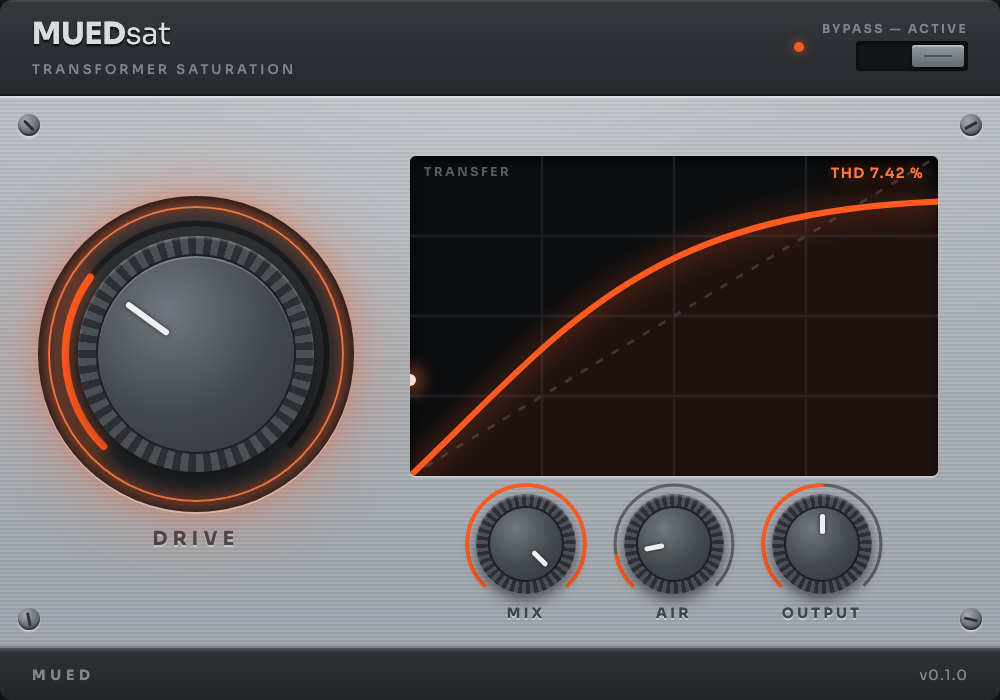
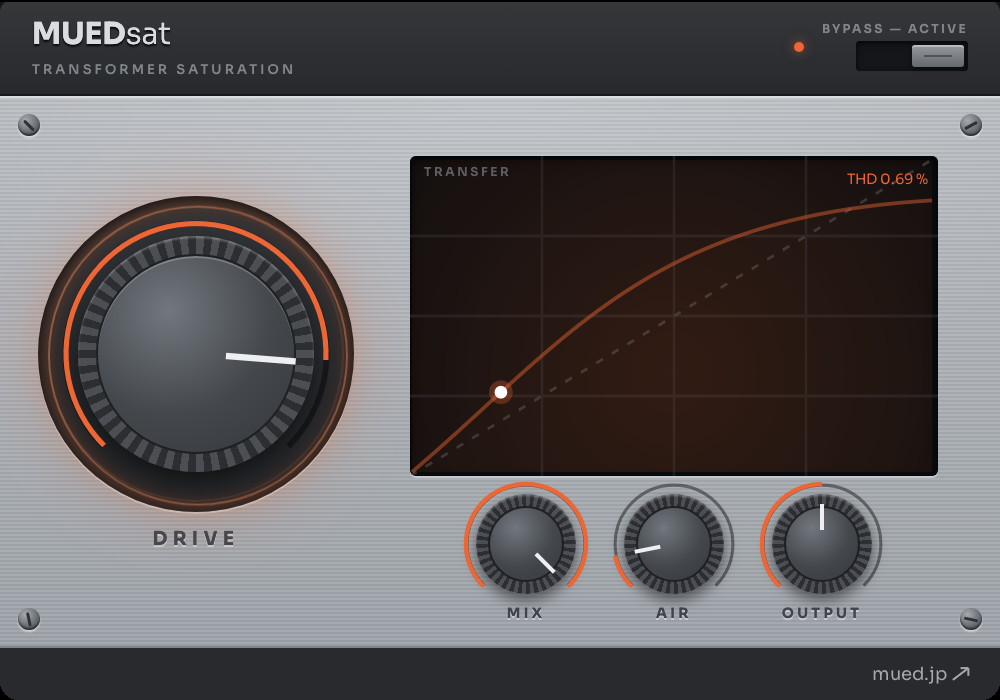
fix(seo): og を持つページは twitter も同じ文に・llms.txt の冒頭を今の MUED に [Tier 2] (#1188)
* fix(seo): og を持つページは twitter も同じ文に・llms.txt の冒頭を今の MUED の説明に（conductor 10/1）[Tier 2]

Claude-Session: https://claude.ai/code/session_01YMQ1QXSp5jMBihPrragoRo

* fix(seo): 共有カードの画像を定数にして、og と twitter の両方に入れる（トップ含む）・test は Node 20 で動く形に（CCO #1188）[Tier 2]

Claude-Session: https://claude.ai/code/session_01YMQ1QXSp5jMBihPrragoRo

* fix(plugins): MUEDsat・MUEDlim の画像を実物（音が入った 1.0.0）に・alt を画像どおりに・THD は「目安」と書く・色のプロファイルを残して変換（masterchain も）[Tier 2]

Claude-Session: https://claude.ai/code/session_01YMQ1QXSp5jMBihPrragoRo

* fix(seo): layout の og にも共有カードの画像と twitter を（/dial/waitlist・/dial/readiness・/connect・dial は定数に）— CCO #1188 注記 [Tier 2]

Claude-Session: https://claude.ai/code/session_01YMQ1QXSp5jMBihPrragoRo

* fix(deps): next 16.3.4 → 16.3.6（GHSA-vcvr-r3jv-pc5j・next/og ImageResponse の RCE・critical）。package.json と lock の next・@next/* だけ [Tier 3・security]

Claude-Session: https://claude.ai/code/session_01YMQ1QXSp5jMBihPrragoRo

---------

diff --git a/app/layout.tsx b/app/layout.tsx
@@ -1,3 +1,4 @@
+import { SHARE_IMAGES } from "@/lib/seo/share-image";
 import type { Metadata, Viewport } from "next";
 import { cookies } from "next/headers";
 import Script from "next/script";
@@ -38,34 +39,29 @@ export const viewport: Viewport = {
   initialScale: 1,
 };
 
+// ★Site-wide defaults = the home page's own og/twitter (app/[locale]/page.tsx). Pages that set no twitter:* fell
+//   back to the old MUED tagline here (conductor 2026-10-01); keep these in step with the home page.
 export const metadata: Metadata = {
-  title: "MUED — ミューズの教え。神秘ではなく、方法論。",
+  title: "MUED — 音楽制作の道具。ミックス、マスタリング、耳の訓練。",
   description:
-    "音楽制作を前に進めるための AI プロダクトスイート。耳を鍛え、制作を記録し、ミックスを AI に任せる。",
+    "現役の作編曲家／ミックスエンジニアが作る、音楽制作のための道具。AIミックスの MUEDial、マスタリング・プラグインの MUEDsp、耳を鍛える MUEDear。",
   metadataBase: new URL("https://mued.jp"),
   openGraph: {
-    title: "MUED — ミューズの教え。神秘ではなく、方法論。",
+    title: "MUED — 音楽制作の道具。ミックス、マスタリング、耳の訓練。",
     description:
-      "音楽制作を前に進めるための AI プロダクトスイート。耳を鍛え、制作を記録し、ミックスを AI に任せる。",
+      "現役の作編曲家／ミックスエンジニアが作る、音楽制作のための道具。AIミックスの MUEDial、マスタリング・プラグインの MUEDsp、耳を鍛える MUEDear。",
     url: "https://mued.jp",
     siteName: "MUED",
-    images: [
-      {
-        url: "/og-image.jpg",
-        width: 1200,
-        height: 630,
-        alt: "MUED — 音楽制作のための AI プロダクトスイート",
-      },
-    ],
+    images: SHARE_IMAGES,
     locale: "ja_JP",
     type: "website",
   },
   twitter: {
     card: "summary_large_image",
-    title: "MUED — ミューズの教え。神秘ではなく、方法論。",
+    title: "MUED — 音楽制作の道具。ミックス、マスタリング、耳の訓練。",
     description:
-      "音楽制作を前に進めるための AI プロダクトスイート。耳を鍛え、制作を記録し、ミックスを AI に任せる。",
-    images: ["/og-image.jpg"],
+      "現役の作編曲家／ミックスエンジニアが作る、音楽制作のための道具。AIミックスの MUEDial、マスタリング・プラグインの MUEDsp、耳を鍛える MUEDear。",
+    images: SHARE_IMAGES,
   },
 };
 

diff --git a/tests/unit/seo-twitter-meta.test.ts b/tests/unit/seo-twitter-meta.test.ts
@@ -1,0 +1,56 @@
+import { readdirSync, readFileSync, statSync } from "node:fs";
+import { join } from "node:path";
+import { expect, it } from "vitest";
+
+/**
+ * Share cards (conductor / CCO 2026-10-01). Next.js REPLACES the layout's openGraph / twitter with the
+ * page's own object — it does not merge — so:
+ *   · a page with openGraph but no twitter showed the layout's (stale) twitter text;
+ *   · a page whose og/twitter has no `images` shares with no picture at all.
+ * ★Plain fs walk (no fs.globSync): CI runs Node 20.
+ */
+function pages(dir: string): string[] {
+  return readdirSync(dir).flatMap((name) => {
+    const p = join(dir, name);
+    if (statSync(p).isDirectory()) return pages(p);
+    return name === "page.tsx" || name === "layout.tsx" ? [p] : [];
+  });
+}
+
+/** The `{…}` object literal that follows `key: ` (balanced braces), or null. */
+function block(src: string, key: string): string | null {
+  const at = src.indexOf(`${key}: {`);
+  if (at < 0) return null;
+  let depth = 0;
+  for (let i = src.indexOf("{", at); i < src.length; i++) {
+    if (src[i] === "{") depth++;
+    else if (src[i] === "}" && --depth === 0) return src.slice(at, i + 1);
+  }
+  return null;
+}
+
+it("every page / layout with openGraph also sets twitter, and both carry a share image", () => {
+  const withOg = pages("app").filter((p) => readFileSync(p, "utf8").includes("openGraph:"));
+  // ★Positive control: the walk finds the pages at all.
+  expect(withOg.length).toBeGreaterThan(5);
+  const problems: string[] = [];
+  for (const p of withOg) {
+    const src = readFileSync(p, "utf8");
+    const og = block(src, "openGraph");
+    const tw = block(src, "twitter");
+    if (!tw) problems.push(`${p}: no twitter`);
+    if (og && !/images: (DIAL_)?SHARE_IMAGES/.test(og)) problems.push(`${p}: openGraph without images`);
+    if (tw && !/images: (DIAL_)?SHARE_IMAGES/.test(tw)) problems.push(`${p}: twitter without images`);
+  }
+  expect(problems).toEqual([]);
+});
+
+it("the layout defaults carry the share image and no longer the old MUED tagline", () => {
+  const layout = readFileSync("app/layout.tsx", "utf8");
+  expect(block(layout, "openGraph")).toContain("images: SHARE_IMAGES");
+  expect(block(layout, "twitter")).toContain("images: SHARE_IMAGES");
+  expect(layout).not.toMatch(/ミューズの教え|制作を記録し/);
+  const llms = readFileSync("app/llms.txt/route.ts", "utf8");
+  expect(llms).not.toMatch(/ミューズの教え|制作の記録|事業の仕組みづくり|MUEDnote/);
+  expect(llms).toContain("MUED は、glasswerks inc. の音楽制作の道具のブランドです。");
+});

diff --git a/app/[locale]/muedrive/page.tsx b/app/[locale]/muedrive/page.tsx
@@ -2,6 +2,7 @@
 // MUEDrive standalone free-download LP (/[locale]/muedrive). Mirrors app/[locale]/muedlim/page.tsx:
 // generateMetadata (robots tied to MUEDRIVE_LIVE), SoftwareApplication JSON-LD, + a self-contained
 // client landing component. Third module in the MUEDsp free family. Copy = muedrive.* namespace.
+import { SHARE_IMAGES } from "@/lib/seo/share-image";
 import type { Metadata } from "next";
 import { setRequestLocale, getTranslations } from "next-intl/server";
 import { locales, type Locale } from "@/lib/i18n/config";
@@ -41,10 +42,18 @@ export async function generateMetadata({ params }: PageProps): Promise<Metadata>
       languages: generateHreflangAlternates("/muedrive"),
     },
     openGraph: {
+      images: SHARE_IMAGES,
       title: t("title"),
       description: t("description"),
       type: "website",
       url: `https://mued.jp/${locale}/muedrive`,
+    },
+    // ★Same title/description as og — without it twitter:* fell back to the site default (conductor 2026-10-01).
+    twitter: {
+      images: SHARE_IMAGES,
+      card: "summary_large_image",
+      title: t("title"),
+      description: t("description"),
     },
   };
 }

diff --git a/app/[locale]/muedlim/page.tsx b/app/[locale]/muedlim/page.tsx
@@ -3,6 +3,7 @@
 // generateMetadata (robots tied to MUEDLIM_LIVE), SoftwareApplication JSON-LD, + a self-contained
 // client landing component. Spun out from the /muedsp §2 MUEDlim section for a direct-link press
 // response (kimny GO supersedes the 7/12 "no independent URL" decision). Copy = muedlim.* namespace.
+import { SHARE_IMAGES } from "@/lib/seo/share-image";
 import type { Metadata } from "next";
 import { setRequestLocale, getTranslations } from "next-intl/server";
 import { locales, type Locale } from "@/lib/i18n/config";
@@ -40,10 +41,18 @@ export async function generateMetadata({ params }: PageProps): Promise<Metadata>
       languages: generateHreflangAlternates("/muedlim"),
     },
     openGraph: {
+      images: SHARE_IMAGES,
       title: t("title"),
       description: t("description"),
       type: "website",
       url: `https://mued.jp/${locale}/muedlim`,
+    },
+    // ★Same title/description as og — without it twitter:* fell back to the site default (conductor 2026-10-01).
+    twitter: {
+      images: SHARE_IMAGES,
+      card: "summary_large_image",
+      title: t("title"),
+      description: t("description"),
     },
   };
 }

diff --git a/app/[locale]/muedial/page.tsx b/app/[locale]/muedial/page.tsx
@@ -2,6 +2,7 @@
 // /muedial LP (wave2 "使い始める" LP, STAGED). Replaces the wave1 placeholder stub. Mirrors
 // app/[locale]/muedsp/page.tsx: generateMetadata (robots tied to MUEDIAL_LP_LIVE => noindex while
 // staged) + gated JSON-LD + a self-contained client landing component. All copy = muedialLp.* i18n.
+import { SHARE_IMAGES } from "@/lib/seo/share-image";
 import type { Metadata } from "next";
 import { setRequestLocale, getTranslations } from "next-intl/server";
 import { locales, type Locale } from "@/lib/i18n/config";
@@ -34,10 +35,18 @@ export async function generateMetadata({ params }: PageProps): Promise<Metadata>
       languages: generateHreflangAlternates("/muedial"),
     },
     openGraph: {
+      images: SHARE_IMAGES,
       title: t("title"),
       description: t("description"),
       type: "website",
       url: `https://mued.jp/${locale}/muedial`,
+    },
+    // ★Same title/description as og — without it twitter:* fell back to the site default (conductor 2026-10-01).
+    twitter: {
+      images: SHARE_IMAGES,
+      card: "summary_large_image",
+      title: t("title"),
+      description: t("description"),
     },
   };
 }

diff --git a/app/dial/layout.tsx b/app/dial/layout.tsx
@@ -1,3 +1,4 @@
+import { DIAL_SHARE_IMAGES } from "@/lib/seo/share-image";
 import type { Metadata } from "next";
 import Script from "next/script";
 import { FirstTouchTracker } from "@/components/dial/first-touch-tracker";
@@ -125,14 +126,7 @@ export const metadata: Metadata = {
       "ステムをアップロードしてAIと話すだけ。宅録・DTM向けAIミキシング・マスタリング。おまかせミックス$7.49から。",
     url: "https://dial.mued.jp/",
     siteName: "MUEDial",
-    images: [
-      {
-        url: "/muedial-hoo-mixing-console.webp",
-        width: 1200,
-        height: 630,
-        alt: "MUEDial — 宅録・DTM向けAIミキシング",
-      },
-    ],
+    images: DIAL_SHARE_IMAGES,
     locale: "ja_JP",
   },
   twitter: {
@@ -140,7 +134,7 @@ export const metadata: Metadata = {
     title: "MUEDial — 宅録・DTMの仕上げをAIと。",
     description:
       "ステムをアップロードしてAIと話すだけ。宅録・DTM向けAIミキシング・マスタリング。おまかせミックス$7.49から。",
-    images: ["/muedial-hoo-mixing-console.webp"],
+    images: DIAL_SHARE_IMAGES,
   },
 };
 

diff --git a/app/[locale]/muedsat/page.tsx b/app/[locale]/muedsat/page.tsx
@@ -2,6 +2,7 @@
 // MUEDsat free-download LP (staged). Mirrors app/[locale]/advisory/page.tsx:
 // generateMetadata (robots tied to MUEDSAT_LIVE => noindex while staged) + JSON-LD + a
 // self-contained client landing component. All copy lives in the muedsat.* i18n namespace.
+import { SHARE_IMAGES } from "@/lib/seo/share-image";
 import type { Metadata } from "next";
 import { setRequestLocale, getTranslations } from "next-intl/server";
 import { locales, type Locale } from "@/lib/i18n/config";
@@ -39,10 +40,18 @@ export async function generateMetadata({ params }: PageProps): Promise<Metadata>
       languages: generateHreflangAlternates("/muedsat"),
     },
     openGraph: {
+      images: SHARE_IMAGES,
       title: t("title"),
       description: t("description"),
       type: "website",
       url: `https://mued.jp/${locale}/muedsat`,
+    },
+    // ★Same title/description as og — without it twitter:* fell back to the site default (conductor 2026-10-01).
+    twitter: {
+      images: SHARE_IMAGES,
+      card: "summary_large_image",
+      title: t("title"),
+      description: t("description"),
     },
   };
 }

diff --git a/app/[locale]/muedsp/page.tsx b/app/[locale]/muedsp/page.tsx
@@ -3,6 +3,7 @@
 // generateMetadata (robots tied to MUEDSP_LIVE => noindex while staged) + JSON-LD (gated) + a
 // self-contained client landing component. Hero + masterchain copy live in the muedsp.* i18n
 // namespace; the saturation block reuses muedsat.*.
+import { SHARE_IMAGES } from "@/lib/seo/share-image";
 import type { Metadata } from "next";
 import { setRequestLocale, getTranslations } from "next-intl/server";
 import { locales, type Locale } from "@/lib/i18n/config";
@@ -40,10 +41,18 @@ export async function generateMetadata({ params }: PageProps): Promise<Metadata>
       languages: generateHreflangAlternates("/muedsp"),
     },
     openGraph: {
+      images: SHARE_IMAGES,
       title: t("title"),
       description: t("description"),
       type: "website",
       url: `https://mued.jp/${locale}/muedsp`,
+    },
+    // ★Without this, twitter:* fell back to the site default instead of this page's own title/description.
+    twitter: {
+      images: SHARE_IMAGES,
+      card: "summary_large_image",
+      title: t("title"),
+      description: t("description"),
     },
   };
 }

diff --git a/app/[locale]/advisory/page.tsx b/app/[locale]/advisory/page.tsx
@@ -2,6 +2,7 @@
 // MUED advisory LP v7 (staged). Mirrors app/[locale]/ai-mixing/page.tsx:
 // generateMetadata + JSON-LD + a self-contained client landing component.
 // STAGED: robots index/follow are tied to ADVISORY_LIVE (false => noindex).
+import { SHARE_IMAGES } from "@/lib/seo/share-image";
 import type { Metadata } from "next";
 import { setRequestLocale, getTranslations } from "next-intl/server";
 import { locales, type Locale } from "@/lib/i18n/config";
@@ -42,10 +43,18 @@ export async function generateMetadata({ params }: PageProps): Promise<Metadata>
       languages: generateHreflangAlternates("/advisory"),
     },
     openGraph: {
+      images: SHARE_IMAGES,
       title: t("title"),
       description: t("description"),
       type: "website",
       url: `https://mued.jp/${locale}/advisory`,
+    },
+    // ★Same title/description as og — without it twitter:* fell back to the site default (conductor 2026-10-01).
+    twitter: {
+      images: SHARE_IMAGES,
+      card: "summary_large_image",
+      title: t("title"),
+      description: t("description"),
     },
   };
 }

diff --git a/lib/seo/share-image.ts b/lib/seo/share-image.ts
@@ -1,0 +1,25 @@
+/**
+ * The one share-card image for every page (og:image / twitter:image).
+ *
+ * ★Next.js REPLACES the layout's openGraph / twitter with the page's own object (it does not merge), so a
+ * page that sets openGraph or twitter without `images` loses the layout's image and shares as a card with
+ * no picture (CCO #1187/#1188, measured on prod 2026-10-01). Every page that sets either must pass this.
+ */
+export const SHARE_IMAGE = {
+  url: "/og-image.jpg",
+  width: 1200,
+  height: 630,
+  alt: "MUED — 音楽制作の道具",
+} as const;
+
+export const SHARE_IMAGES = [SHARE_IMAGE];
+
+/** MUEDial's share card (dial.mued.jp) — the dial layout and every dial page that sets og/twitter use it. */
+export const DIAL_SHARE_IMAGE = {
+  url: "/muedial-hoo-mixing-console.webp",
+  width: 1200,
+  height: 630,
+  alt: "MUEDial — 宅録・DTM向けAIミキシング",
+} as const;
+
+export const DIAL_SHARE_IMAGES = [DIAL_SHARE_IMAGE];

diff --git a/app/learn/[slug]/page.tsx b/app/learn/[slug]/page.tsx
@@ -1,3 +1,4 @@
+import { SHARE_IMAGES } from "@/lib/seo/share-image";
 import { BrandHeader } from "@/components/brand/brand-header";
 import { notFound } from "next/navigation";
 import Link from "next/link";
@@ -34,12 +35,20 @@ export async function generateMetadata({ params }: { params: Promise<{ slug: str
     // Staged: noindex until the track goes live (kimny flips LEARN_LIVE after the tone gate).
     robots: { index: LEARN_LIVE, follow: LEARN_LIVE },
     openGraph: {
+      images: SHARE_IMAGES,
       title: article.seoTitle,
       description: article.description,
       url,
       type: "article",
       locale: "en_US",
       siteName: "MUED",
+    },
+    // ★Same title/description as og — without it twitter:* fell back to the site default (conductor 2026-10-01).
+    twitter: {
+      images: SHARE_IMAGES,
+      card: "summary_large_image",
+      title: article.seoTitle,
+      description: article.description,
     },
   };
 }
